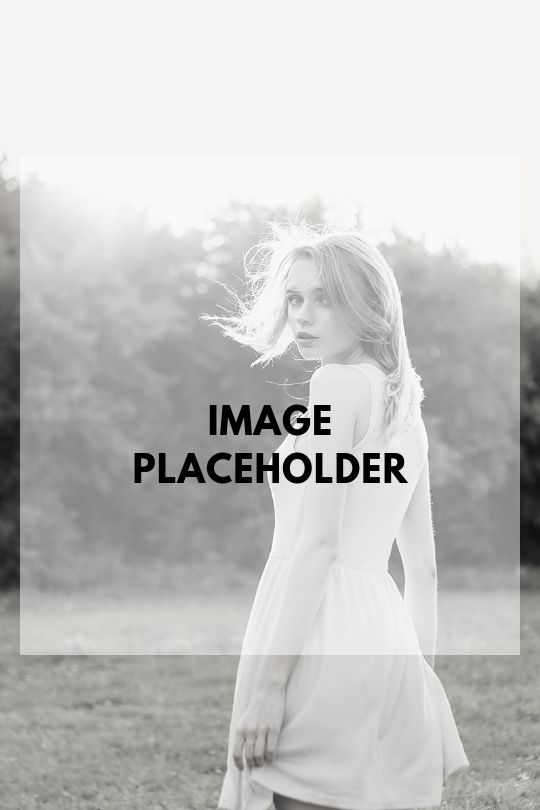
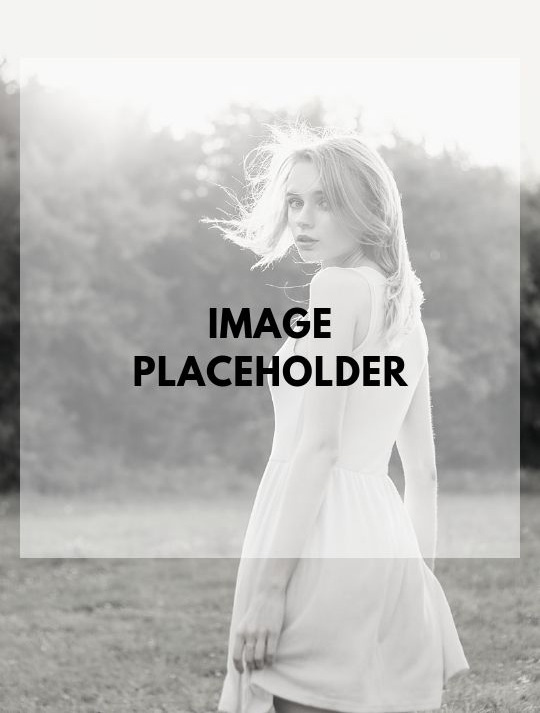
made breadcrumbs, fit featured dress images a little better

diff --git a/stylesheet.css b/stylesheet.css
@@ -126,6 +126,7 @@ html,
 body {
     height: 100%;
     margin: 0;
+    font-family: 'Muli', sans-serif;
 }
 
 #container {
@@ -559,7 +560,66 @@ button {
 }
 
 
-/*------------------------TEMPLATE----------------*/
+/*-------------------BREADCRUMBS-----------------*/
+
+
+/* Style the list */
+
+ul.breadcrumb {
+    padding: 10px 35px;
+    list-style: none;
+    background-color: #F2E6DA;
+}
+
+
+/* Display list items side by side */
+
+ul.breadcrumb li {
+    display: inline;
+    font-size: 14px;
+    color: #888888;
+}
+
+
+/* Add a slash symbol (/) before/behind each list item */
+
+ul.breadcrumb li+li:before {
+    padding: 8px;
+    color: #888888;
+    content: "/\00a0";
+}
+
+
+/* Add a color to all links inside the list */
+
+ul.breadcrumb li a {
+    color: #888888;
+    text-decoration: none;
+}
+
+
+/* Add a color on mouse-over */
+
+ul.breadcrumb li a:hover {
+    color: #FF6F61;
+    text-decoration: none;
+}
+
+@media screen and (max-width: 600px) {
+    ul.breadcrumb li {
+        display: inline;
+        font-size: 10px;
+        color: #888888;
+    }
+    ul.breadcrumb {
+        padding: 10px 16px;
+        list-style: none;
+        background-color: #F2E6DA;
+    }
+}
+
+
+/*------------------------Gallery---------------------*/
 
 .container {
     width: 960px;

diff --git a/category.html b/category.html
@@ -35,18 +35,15 @@
         </div>
     </header>
 
-
-
-    <div class="search">
-        <i class="fas fa-shopping-cart"></i>
-        <i class="fas fa-search"></i>
-    </div>
-    </header>
+    <ul class="breadcrumb">
+        <li><a href="index.html">Home</a></li>
+        <li>Dresses</li>
+    </ul>
 
     <section class="imagegallery">
         <div class="row">
             <div class="column">
-                <a href="productpage.html"><img src="/assets/feature_01.jpg"></a>
+                <a href="productpage.html"><img src="/assets/productdress2.jpg"></a>
                 <img src="/assets/IMAGE Placeholder.jpg">
 
             </div>

diff --git a/productpage.html b/productpage.html
@@ -41,6 +41,12 @@
             <i class="fas fa-search"></i>
         </div>
     </header>
+
+    <ul class="breadcrumb">
+        <li><a href="index.html">Home</a></li>
+        <li><a href="category.html">Dresses</a></li>
+        <li>Checkered Tablecloth Dress</li>
+    </ul>
     <!--begin template-->
     <div class="container clearfix">
         <div class="gallery">
